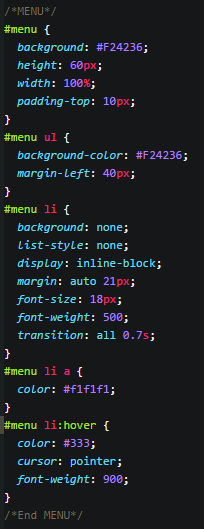
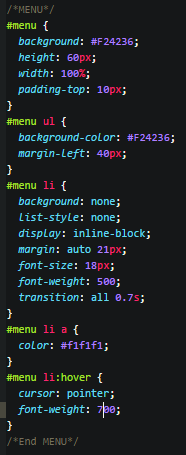
fotos en el ReadMe

diff --git a/assets/css/main.css b/assets/css/main.css
@@ -30,9 +30,8 @@ body {
   color: #f1f1f1;
 }
 #menu li:hover {
-  color: #333;
   cursor: pointer;
-  font-weight: 900;
+  font-weight: 700;
 }
 /*End MENU*/
 

diff --git a/README.md b/README.md
@@ -10,10 +10,28 @@
   - Artículos informativos.
 
 ## El Menú
-
-![Alt text](/assets/img/menu_html.png?raw=true)
+![Alt text](/assets/img/menu_img.png?raw=true)
 
   El menú es una lista para cada opción. Se encuentra dentro de una etiqueta nav, y ésta dentro de la sección header del body.
   Cada opción del menú es una etiqueta a que se modificó en CSS.
 
+![Alt text](/assets/img/menu_html.png?raw=true)
 ![Alt text](/assets/img/menu_css.png?raw=true)
+
+## La Galería de Pandas
+
+![Alt text](/assets/img/fotos_img.png?raw=true)
+
+  La galería conta de 4 fotos las cuales pueden ser ocultadas haciendo click al aspa en cada una. Una vez se ocultan todas, la sección de la fotos desaparece.
+
+![Alt text](/assets/img/fotos_close.png?raw=true)
+![Alt text](/assets/img/fotos_none.png?raw=true)
+
+  En JS se llama a cada foto y al aspa dentro del evento "load" de la ventana, esto para cambiar el display de cada una.
+
+![Alt text](/assets/img/fotos_event.png?raw=true)
+
+  Adicional al display se crea la función noHidden() que retornará las imagenes al ocurrir el evento "click" en el botón 'Restore photos'.
+
+![Alt text](/assets/img/fotos_funcion.png?raw=true)
+![Alt text](/assets/img/fotos_restore.png?raw=true)
